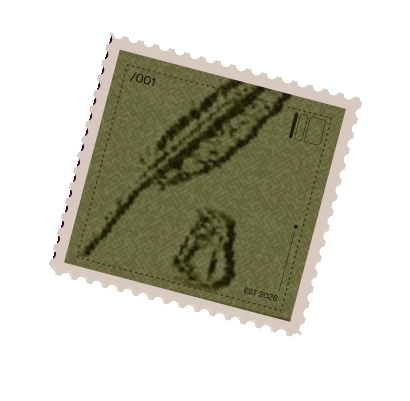
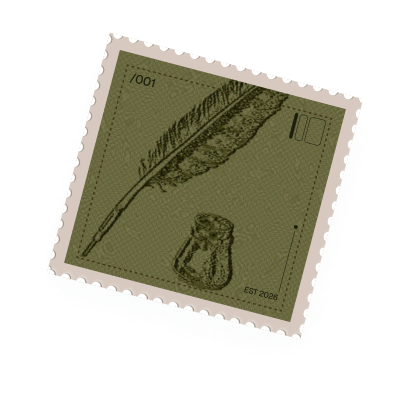
changes for the stamps

diff --git a/modules/pricing/components/shared/twill-panel.tsx b/modules/pricing/components/shared/twill-panel.tsx
@@ -63,7 +63,7 @@ export function TwillPanel({ frameInset, studInset, stamp, tile = twillTile, sur
           alt=""
           aria-hidden
           sizes="96px"
-          // Figma's 4x export, lossless, served as it is: resized and re-encoded by the image optimiser, its fine print blurred.
+          // Figma's 3x export (the 19 November 2026 stamps), lossless, served as it is: resized and re-encoded by the image optimiser, its fine print blurred.
           unoptimized
           className="pointer-events-none absolute top-[40.5px] right-[53.8px] h-auto w-[95px] select-none max-lg:top-[28px] max-lg:right-[32px] max-lg:w-[76px] max-md:top-[22px] max-md:right-[22px] max-md:w-[58px]"
         />

diff --git a/modules/support/components/handoff/aubergine-steps.tsx b/modules/support/components/handoff/aubergine-steps.tsx
@@ -151,7 +151,7 @@ export function AubergineSteps({
                 <div className={`absolute flex items-center justify-center ${v.card}`}>
                   <Image src={cardArt} alt="" fill className="max-w-none" />
                   {/*
-                    A step's own stamp (Retain's Loyalty) is Figma's 4x export, lossless, and served as it is
+                    A step's own stamp (Retain's Loyalty) is Figma's 3x export (the 19 November 2026 stamps), lossless, and served as it is
                     (`unoptimized`): resized and re-encoded by the image optimiser, its fine print and dashed rule blurred.
                   */}
                   <Image
